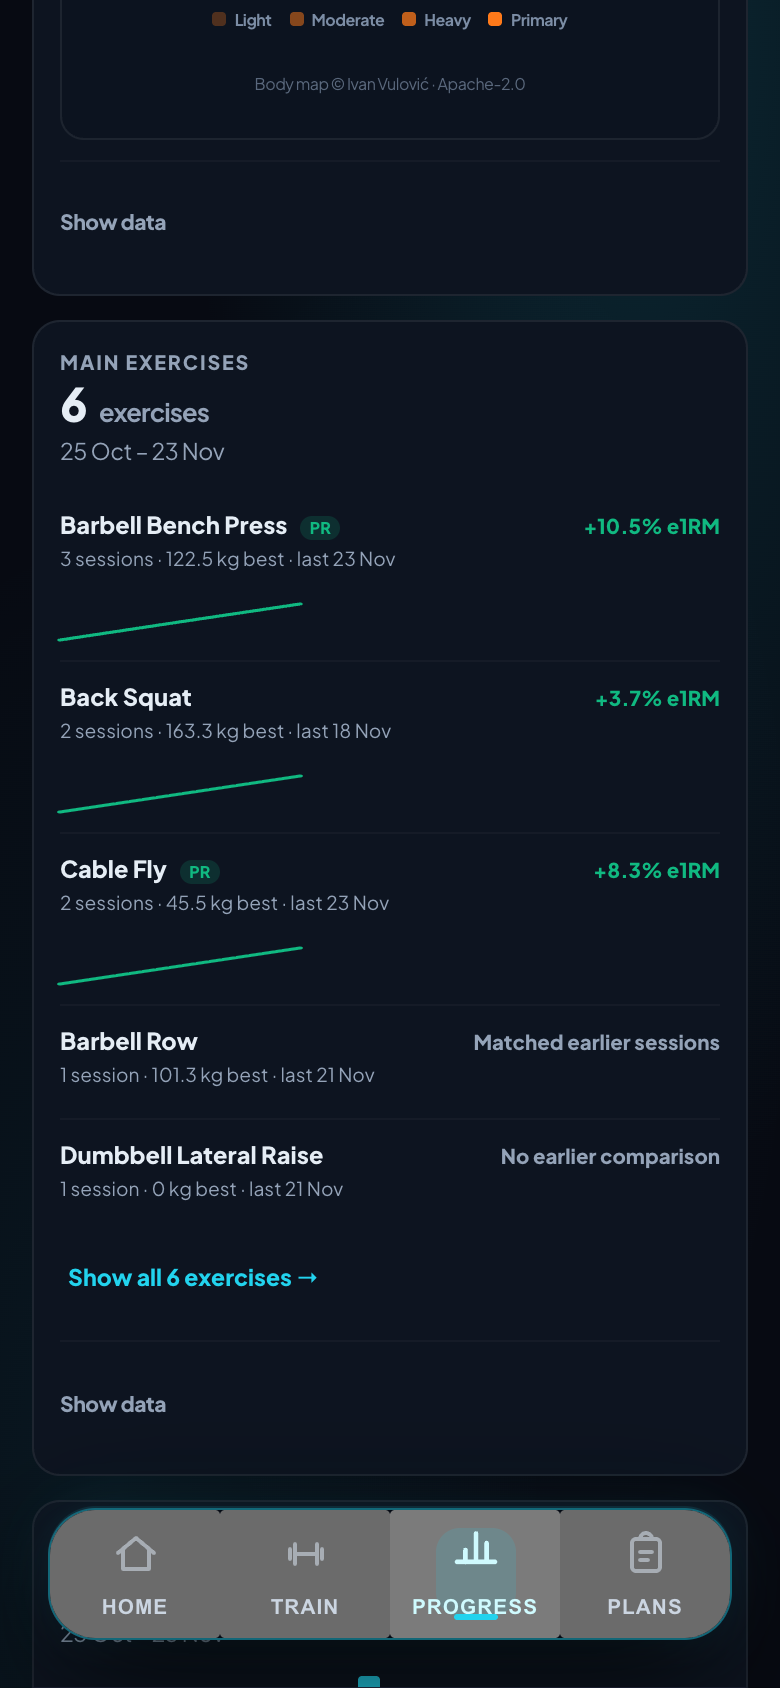
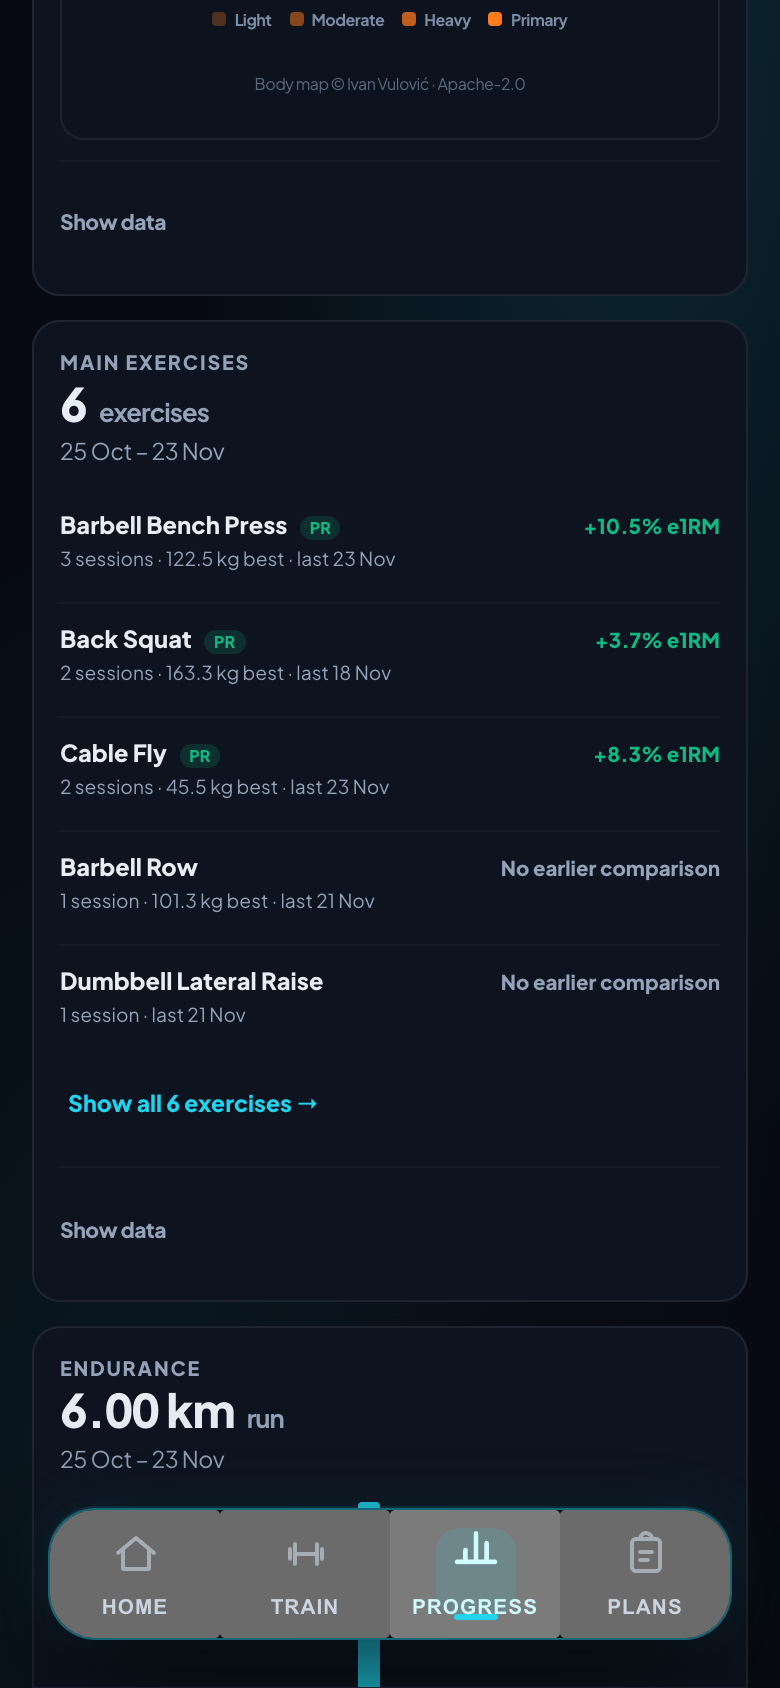
fix(progress): exercise rows state facts, not decoration
The screenshot showed three defects in Main exercises:

1. A self-scaled sparkline. 'spark' normalises to its own min/max, so +1% and
   +50% drew the identical slope beside a delta that already stated the real
   number. Removed: the row carries the change as text and the drilldown has
   the chart.
2. '1 session - Matched earlier sessions'. With one session, 'first' and 'best'
   are that session, so the delta was 0 and claimed a comparison with history
   that does not exist. A delta now requires two or more sessions.
3. 'Dumbbell Lateral Raise - 0 kg best'. A bodyweight lift has no e1RM; the row
   now omits the best mark instead of printing zero.

Two PR-flag bugs found while fixing them:
- the first session ever was a 'record' because it beat an empty prior best;
- a record set OUTSIDE the window badged the window, because the flag was
  raised globally rather than inside the range.

The flag now means: a session INSIDE the window beat a non-empty prior best,
strictly, in date order. Iteration is chronological (it was Map insertion
order, which made 'beats everything before it' meaningless).

diff --git a/js/analytics/exercises-summary.js b/js/analytics/exercises-summary.js
@@ -35,7 +35,10 @@ export function buildExerciseSummaryModel(state, options = /** @type {any} */ ({
   /** @type {Map<string, any>} */
   const stats = new Map();
 
-  for (const [dateISO, slots] of index.allByDate) {
+  // CHRONOLOGICAL, not insertion order: the PR flag asks whether a session beat
+  // everything BEFORE it, which is meaningless unless dates are sorted.
+  for (const dateISO of [...index.allByDate.keys()].sort()) {
+    const slots = index.allByDate.get(dateISO) || [];
     for (const slot of slots) {
       for (const [liftName, sets] of Object.entries(slot.lifts || {})) {
         if (!Array.isArray(sets)) continue;
@@ -52,6 +55,8 @@ export function buildExerciseSummaryModel(state, options = /** @type {any} */ ({
             liftId: id,
             lift: name,
             allTimeBest: 0,
+            runningBest: 0,
+            hadRecordInWindow: false,
             sessionDates: new Set(),
             sets: 0,
             best: 0,
@@ -69,10 +74,20 @@ export function buildExerciseSummaryModel(state, options = /** @type {any} */ ({
           const estimate = estimatedE1rmForSet(liftName, set);
           if (estimate > sessionBest) sessionBest = estimate;
         }
+        // A PR is "a session that beats every earlier comparable session", so it
+        // needs a NON-EMPTY prior best to beat:
+        //   · the first session ever is not a record (nothing came before it),
+        //   · a session that merely ties the best is not a record.
+        // `runningBest` is the high-water mark so far, in date order.
+        const beatsPrior = entry.runningBest > 0 && sessionBest > entry.runningBest + 0.01;
+        if (sessionBest > entry.runningBest) entry.runningBest = sessionBest;
         if (sessionBest > entry.allTimeBest) entry.allTimeBest = sessionBest;
 
         // Everything below is window-scoped; the all-time best above is not.
         if (!inRange(dateISO, range)) continue;
+        // A record set OUTSIDE the window must not badge the window, so the flag
+        // is only raised by a session that is actually inside it.
+        if (beatsPrior) entry.hadRecordInWindow = true;
         entry.sessionDates.add(dateISO);
         entry.sets += working.length;
         if (sessionBest > entry.best) entry.best = sessionBest;
@@ -93,7 +108,10 @@ export function buildExerciseSummaryModel(state, options = /** @type {any} */ ({
   const rows = [...stats.values()]
     .filter((entry) => entry.sessionDates.size > 0)
     .map((entry) => {
-      const deltaPct = entry.first > 0
+      // A single session is not a comparison. `first` and `best` are the same
+      // session there, which produced a "+0% / matched earlier sessions" claim
+      // about history that does not exist.
+      const deltaPct = entry.sessionDates.size >= 2 && entry.first > 0
         ? Math.round(((entry.best - entry.first) / entry.first) * 1000) / 10
         : null;
       const series = [...entry.series.entries()]
@@ -108,8 +126,8 @@ export function buildExerciseSummaryModel(state, options = /** @type {any} */ ({
         latestE1rm: Math.round(entry.latest * 10) / 10,
         deltaPct,
         lastPerformedISO: entry.lastDate,
-        // A PR only when the window's best IS the all-time best for this lift.
-        prFlag: entry.best > 0 && entry.allTimeBest > 0 && entry.best >= entry.allTimeBest - 0.01,
+        // A PR only when some session in the window BEAT everything before it.
+        prFlag: entry.hadRecordInWindow && entry.best > 0,
         series,
       };
     })

diff --git a/tests/exercises_summary.test.js b/tests/exercises_summary.test.js
@@ -32,6 +32,15 @@ test('exercises are ranked by sessions and carry an e1RM change', () => {
   assert.ok(squat.series.length >= 2, 'a series for the sparkline');
 });
 
+test('one session is not a comparison', () => {
+  const model = buildExerciseSummaryModel(stateWith([
+    day('2026-11-20', { 'Back Squat': [done(140)], 'Bench Press': [done(100)], 'Barbell Row': [done(80)] }),
+  ]), { range });
+  for (const row of model.rows) {
+    assert.equal(row.deltaPct, null, `${row.lift} cannot compare with itself`);
+  }
+});
+
 test('an exercise trained once in the window is listed but does not qualify as data', () => {
   const model = buildExerciseSummaryModel(stateWith([
     day('2026-11-20', { 'Back Squat': [done(140)], 'Bench Press': [done(100)], 'Barbell Row': [done(80)] }),
@@ -80,6 +89,33 @@ test('the PR flag compares against the all-time best, not just this window', () 
   ]), { range });
   const top = recordNow.rows.find((row) => row.lift === 'Back Squat');
   assert.equal(top.prFlag, true, 'the best ever is a PR');
+});
+
+test('a record set OUTSIDE the window does not badge the window', () => {
+  // June 150 -> August 170 is a record, but August is outside the 30-day window.
+  // The window's own sessions (140, 145) beat nothing, so no badge.
+  const model = buildExerciseSummaryModel(stateWith([
+    day('2026-06-01', { 'Back Squat': [done(150)] }),
+    day('2026-08-01', { 'Back Squat': [done(170)] }),
+    day('2026-11-10', { 'Back Squat': [done(140)] }),
+    day('2026-11-17', { 'Back Squat': [done(145)] }),
+    day('2026-11-20', { 'Bench Press': [done(100)] }),
+    day('2026-11-21', { 'Barbell Row': [done(80)] }),
+  ]), { range });
+  const squat = model.rows.find((row) => row.lift === 'Back Squat');
+  assert.equal(squat.prFlag, false, 'the record was set in August, not this window');
+});
+
+test('a record set INSIDE the window badges it', () => {
+  const model = buildExerciseSummaryModel(stateWith([
+    day('2026-06-01', { 'Back Squat': [done(150)] }),
+    day('2026-11-10', { 'Back Squat': [done(140)] }),
+    day('2026-11-17', { 'Back Squat': [done(165)] }),
+    day('2026-11-20', { 'Bench Press': [done(100)] }),
+    day('2026-11-21', { 'Barbell Row': [done(80)] }),
+  ]), { range });
+  const squat = model.rows.find((row) => row.lift === 'Back Squat');
+  assert.equal(squat.prFlag, true, '165 beat the 150 set in June');
 });
 
 test('stored aliases collapse to one canonical exercise row', () => {

diff --git a/js/analytics/views/view-exercises.js b/js/analytics/views/view-exercises.js
@@ -7,7 +7,7 @@
 // drilldown carries the full series — so the chart is never the only evidence.
 // =============================================================================
 import { band, dataTableDisclosure, stateBlock } from './band-kit.js';
-import { esc, spark } from './screen-kit.js';
+import { esc } from './screen-kit.js';
 import { formatDayMonthShort } from '../../dates.js';
 
 const COLORS = Object.freeze({
@@ -15,6 +15,18 @@ const COLORS = Object.freeze({
   down: 'var(--color-amber, #f59e0b)',
   flat: 'var(--text-secondary)',
 });
+
+/**
+ * Session count, best mark and last date — with no invented weight. A
+ * bodyweight lift has no e1RM, and "0 kg best" is worse than saying nothing.
+ * @param {any} row @param {string} unit
+ */
+function metaFor(row, unit) {
+  const parts = [`${row.sessions} session${row.sessions === 1 ? '' : 's'}`];
+  if (row.bestE1rm > 0) parts.push(`${row.bestE1rm} ${unit} best`);
+  if (row.lastPerformedISO) parts.push(`last ${formatDayMonthShort(row.lastPerformedISO)}`);
+  return parts.join(' · ');
+}
 
 /** @param {number|null} deltaPct */
 function deltaText(deltaPct) {
@@ -72,9 +84,6 @@ export function renderExercises(model, options = {}) {
 
   const rows = shown.map((row) => {
     const delta = deltaText(row.deltaPct);
-    const sparkSVG = row.series.length >= 2
-      ? spark(row.series.map((point) => point.e1rm), COLORS[/** @type {'up'|'down'|'flat'} */ (delta.tone)])
-      : '';
     return `<li class="pg-ex">
       <button type="button" class="pg-ex__hit"
         data-action="open-analytics" data-context="exercise"
@@ -84,11 +93,7 @@ export function renderExercises(model, options = {}) {
           <span class="pg-ex__name">${esc(row.lift)}${row.prFlag ? ' <span class="pg-ex__pr">PR</span>' : ''}</span>
           <span class="pg-ex__delta" style="color:${COLORS[/** @type {'up'|'down'|'flat'} */ (delta.tone)]}">${esc(delta.text)}</span>
         </span>
-        <span class="pg-ex__meta">
-          ${esc(`${row.sessions} session${row.sessions === 1 ? '' : 's'} · ${row.bestE1rm} ${model.unit} best`)}
-          ${row.lastPerformedISO ? esc(` · last ${formatDayMonthShort(row.lastPerformedISO)}`) : ''}
-        </span>
-        ${sparkSVG ? `<span class="pg-ex__spark" aria-hidden="true">${sparkSVG}</span>` : ''}
+        <span class="pg-ex__meta">${esc(metaFor(row, model.unit))}</span>
       </button>
     </li>`;
   }).join('');

diff --git a/tests/exercises_view.test.js b/tests/exercises_view.test.js
@@ -29,11 +29,36 @@ test('rows link into the exercise drilldown with a real entity', () => {
   assert.match(html, /data-entity-name="Back Squat"/);
 });
 
-test('the sparkline is decorative and the numbers are text', () => {
+test('rows state their numbers in text and draw no self-scaled sparkline', () => {
   const html = renderExercises(model());
-  assert.match(html, /pg-ex__spark" aria-hidden="true"/);
+  // A line scaled to its own min/max makes +1% and +50% look identical, and the
+  // row already states the change — so the row carries no sparkline at all.
+  assert.doesNotMatch(html, /pg-ex__spark/);
   assert.match(html, /best/);
   assert.match(html, /Show data/);
+});
+
+test('a lift with no measurable load says nothing rather than "0 kg best"', () => {
+  const bodyweight = buildExerciseSummaryModel(stateWith([
+    day('2026-11-10', { 'Push-Up': [done(0, 20)] }),
+    day('2026-11-17', { 'Push-Up': [done(0, 22)] }),
+    day('2026-11-20', { 'Back Squat': [done(140)] }),
+    day('2026-11-21', { 'Barbell Row': [done(80)] }),
+  ]), { range });
+  const html = renderExercises(bodyweight);
+  assert.doesNotMatch(html, /0 kg best/);
+  assert.match(html, /sessions/);
+});
+
+test('a tied best is not a PR', () => {
+  const tied = buildExerciseSummaryModel(stateWith([
+    day('2026-11-10', { 'Back Squat': [done(140)] }),
+    day('2026-11-17', { 'Back Squat': [done(140)] }),
+    day('2026-11-20', { 'Bench Press': [done(100)], 'Barbell Row': [done(80)] }),
+    day('2026-11-21', { 'Bench Press': [done(100)], 'Barbell Row': [done(85)] }),
+  ]), { range });
+  const squat = tied.rows.find((row) => row.lift === 'Back Squat');
+  assert.equal(squat.prFlag, false, 'equalling the best is not beating it');
 });
 
 test('the limit caps rows and offers the rest', () => {

diff --git a/sw.js b/sw.js
@@ -16,7 +16,7 @@
 // (a node --test), so a newly-added, offline-reachable module can never again
 // be silently omitted from the cache.
 // ==========================================
-const CACHE_NAME = 'openhybrid-v122-h06820fafd218';
+const CACHE_NAME = 'openhybrid-v122-h7f82c712cf34';
 
 // GENERATED — do not hand-edit. Run: node scripts/gen-precache.mjs
 const REQUIRED_ASSETS = [
